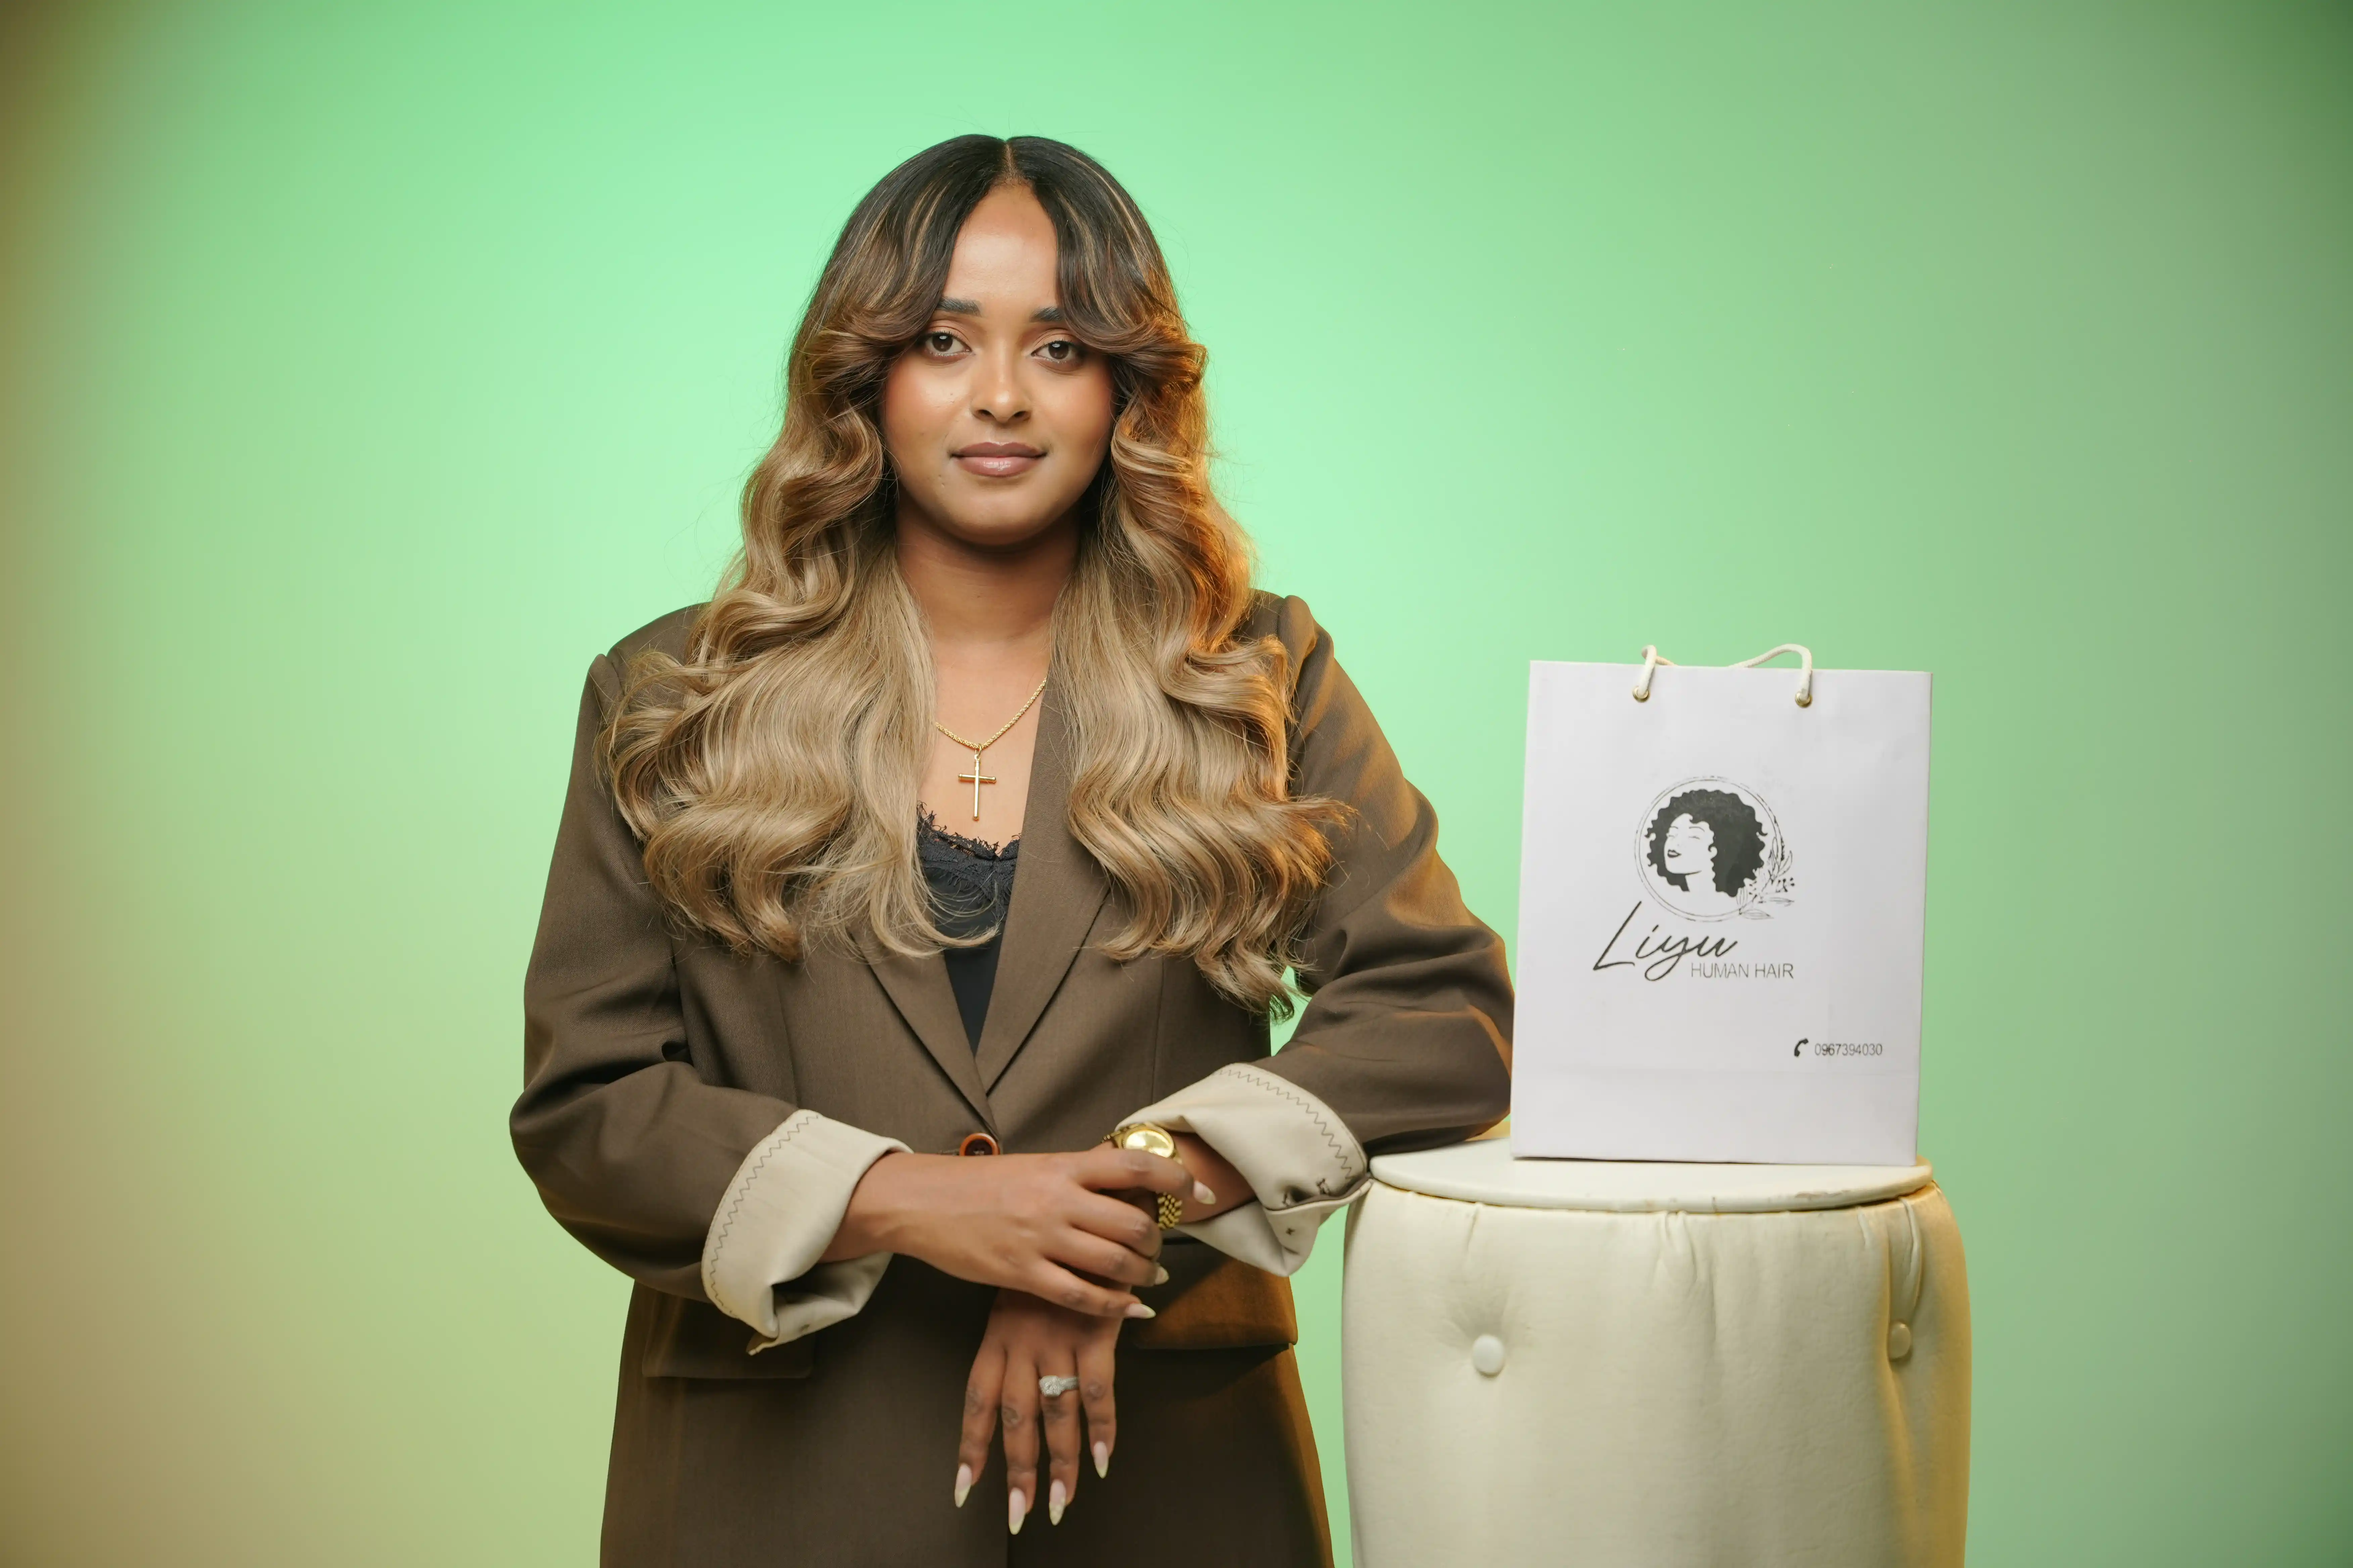
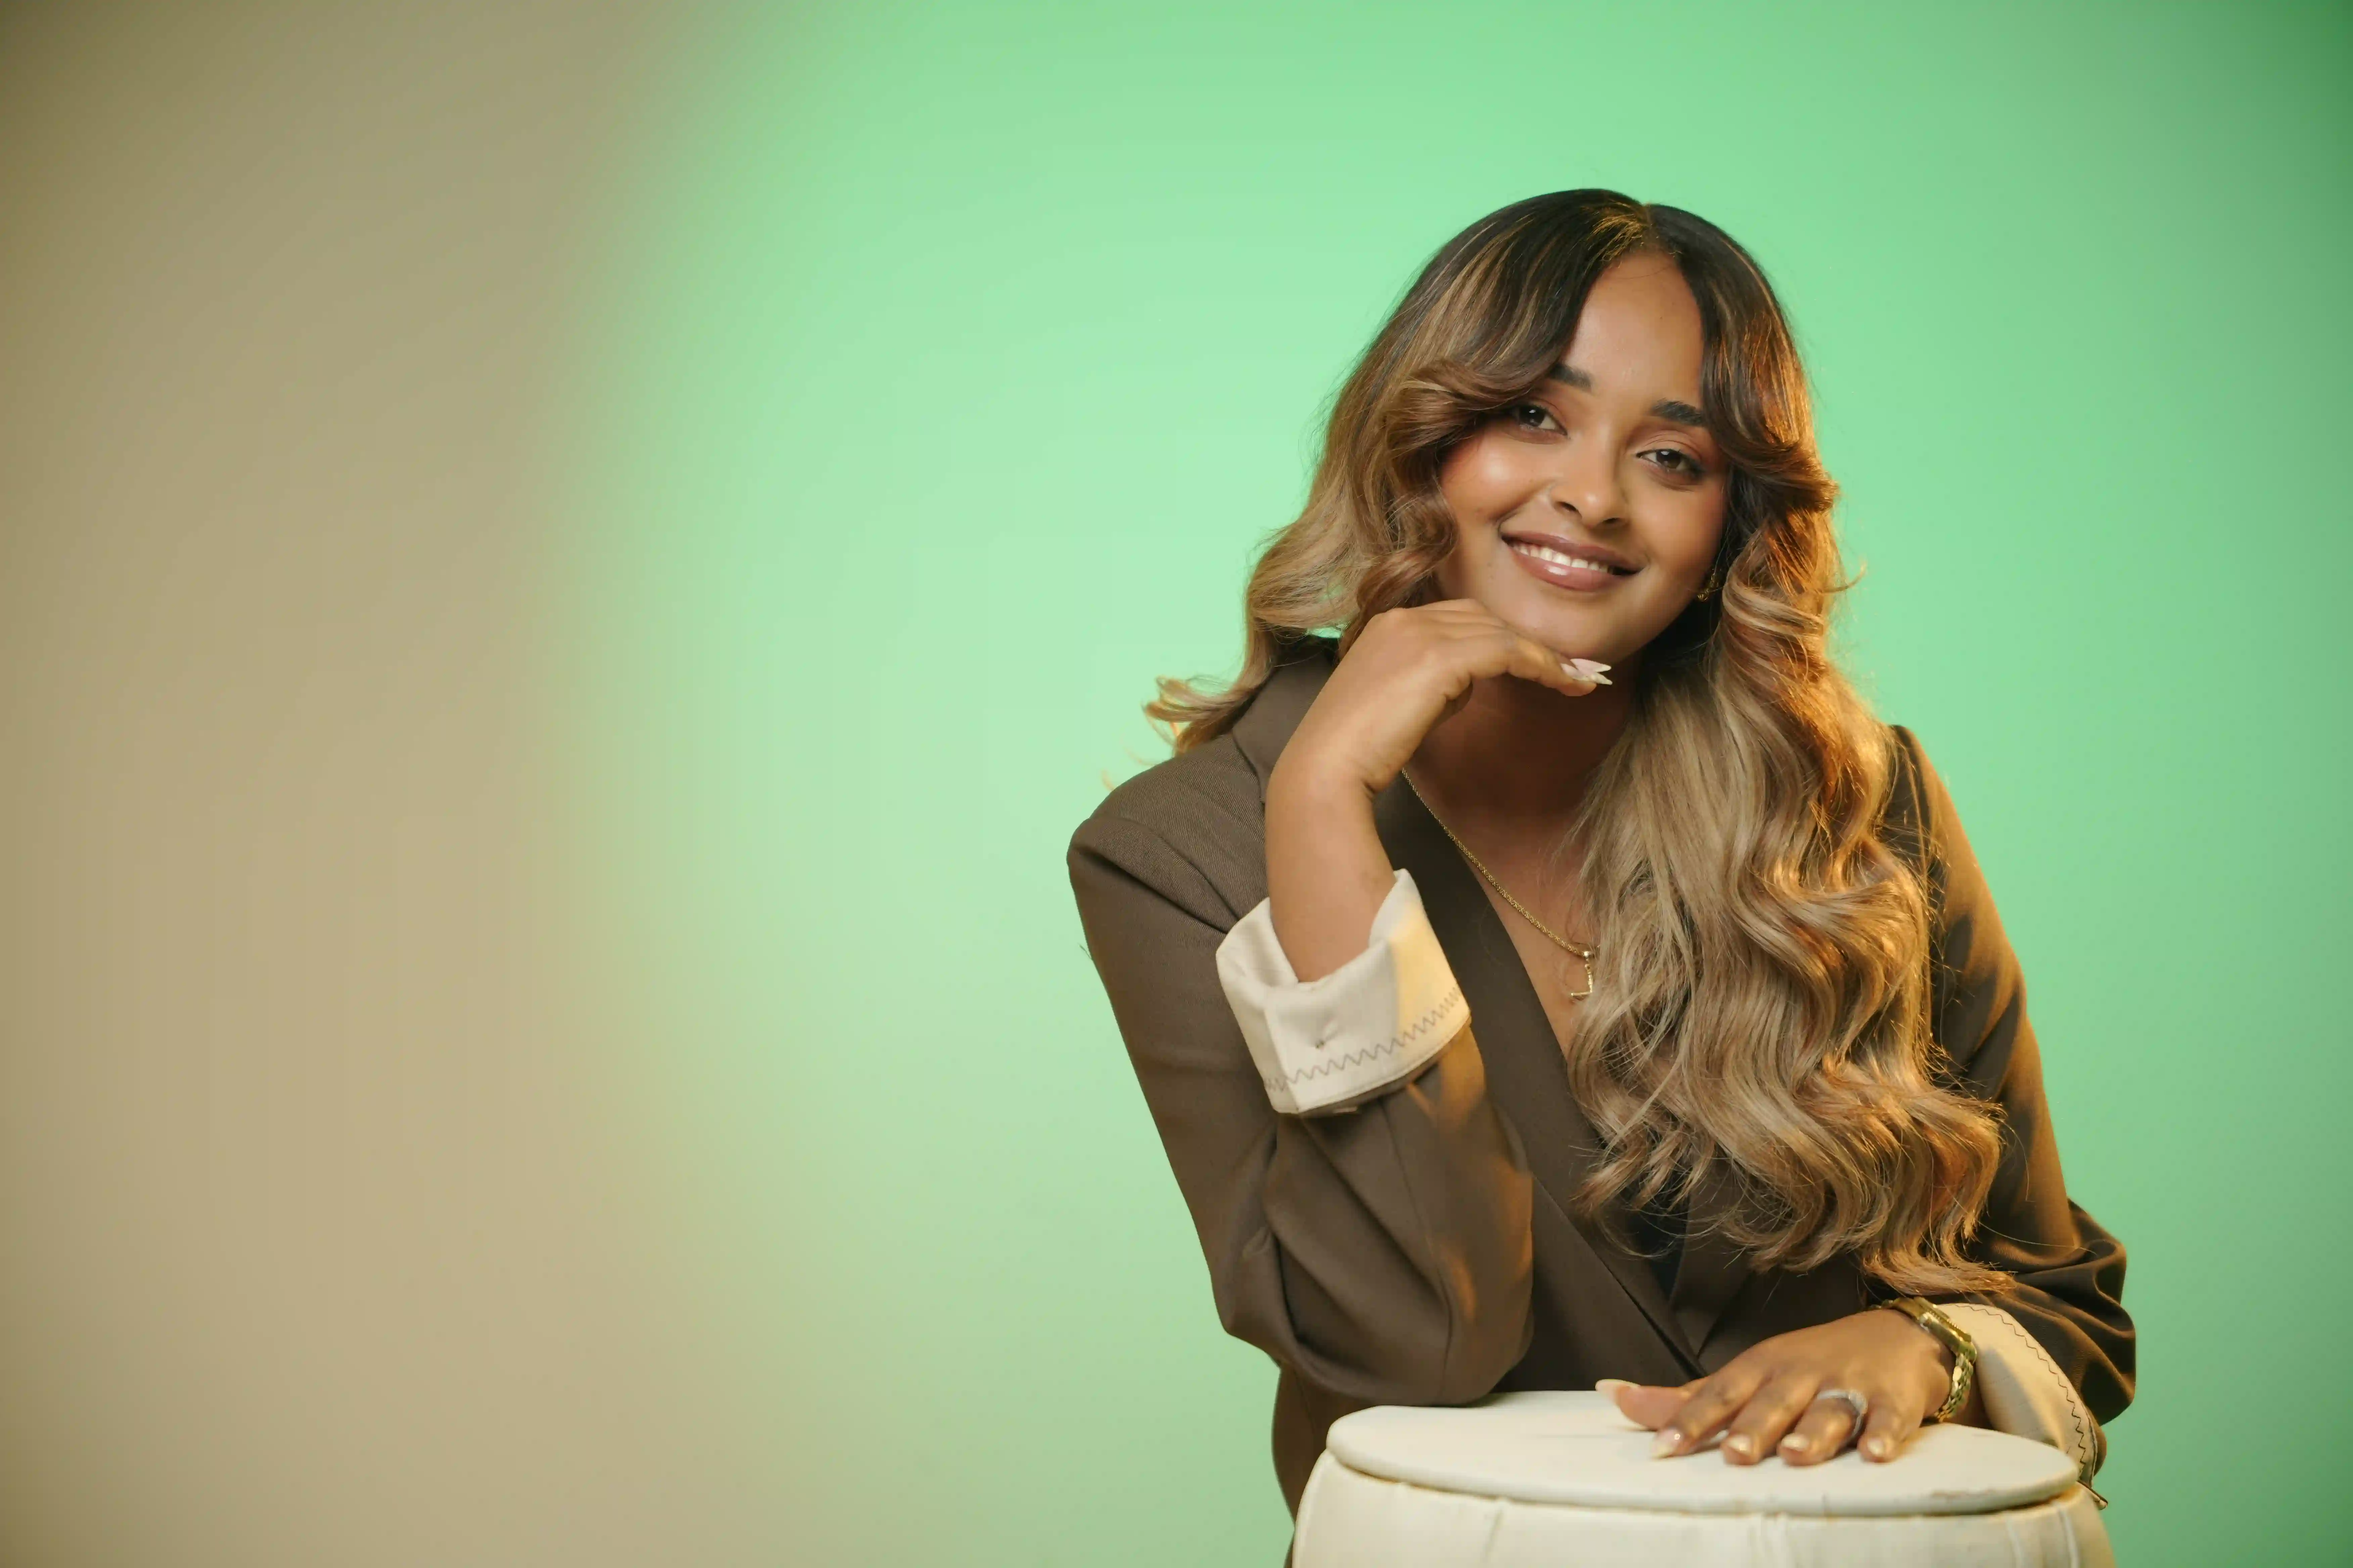
refactor(ui): update product card image resolution logic
Simplify the image resolution logic in ProductCard to rely exclusively on color-specific variants or base product images, removing hardcoded file paths.

diff --git a/src/data/products.ts b/src/data/products.ts
@@ -8,24 +8,28 @@ export const PRODUCTS: Product[] = [
     catalogNumber: 1,
     category: 'Wave',
     shortDescription: 'Premium human hair with a soft, flowing wave pattern. Sold as 1 Bundle.',
-    description: 'Premium human hair with a soft, flowing wave pattern. Designed for a natural, elegant look with movement and versatility. Available in multiple lengths in Black.',
+    description: 'Premium human hair with a soft, flowing wave pattern. Designed for a natural, elegant look with movement and versatility. Available in multiple lengths in Black and Blonde.',
     bundleNotice: 'Sold as 1 Bundle',
     basePrice: 80,
     maxPrice: 102,
-    availableColors: ['Black'],
+    availableColors: ['Black', 'Blonde'],
     availableLengths: [20, 22, 24, 26, 28],
     images: [
+      '/4.webp',
       '/1.webp',
     ],
     colorImages: {
-      Black: '/1.webp',
+      Black: '/4.webp',
+      Blonde: '/1.webp',
     },
     colorThumbnails: {
-      Black: '/1.webp',
+      Black: '/4.webp',
+      Blonde: '/1.webp',
     },
     features: [
       'Brazilian Human Hair — 1 Piece Price',
       'Double Donor: 85%–90% equal length from top to bottom',
+      'Available in Black and Blonde shades',
       'Intact unidirectionally aligned cuticles',
       'Soft, flowing wave pattern with natural luster',
       'Double micro-stitch reinforced sealed weft',
@@ -40,11 +44,18 @@ export const PRODUCTS: Product[] = [
     reviewCount: 142,
     isBestseller: true,
     variants: [
+      // BLACK
       { id: 'wv-blk-20', color: 'Black', length: 20, price: 80, inStock: true, sku: 'LY-WV-BLK-20' },
       { id: 'wv-blk-22', color: 'Black', length: 22, price: 85, inStock: true, sku: 'LY-WV-BLK-22' },
       { id: 'wv-blk-24', color: 'Black', length: 24, price: 92, inStock: true, sku: 'LY-WV-BLK-24' },
       { id: 'wv-blk-26', color: 'Black', length: 26, price: 97, inStock: true, sku: 'LY-WV-BLK-26' },
       { id: 'wv-blk-28', color: 'Black', length: 28, price: 102, inStock: true, sku: 'LY-WV-BLK-28' },
+      // BLONDE
+      { id: 'wv-bld-20', color: 'Blonde', length: 20, price: 80, inStock: true, sku: 'LY-WV-BLD-20' },
+      { id: 'wv-bld-22', color: 'Blonde', length: 22, price: 85, inStock: true, sku: 'LY-WV-BLD-22' },
+      { id: 'wv-bld-24', color: 'Blonde', length: 24, price: 92, inStock: true, sku: 'LY-WV-BLD-24' },
+      { id: 'wv-bld-26', color: 'Blonde', length: 26, price: 97, inStock: true, sku: 'LY-WV-BLD-26' },
+      { id: 'wv-bld-28', color: 'Blonde', length: 28, price: 102, inStock: true, sku: 'LY-WV-BLD-28' },
     ],
   },
   {
@@ -193,13 +204,13 @@ export const PRODUCTS: Product[] = [
     availableColors: ['Black'],
     availableLengths: [20, 22, 24, 26, 28],
     images: [
-      '/15.png',
+      '/16.png',
     ],
     colorImages: {
-      Black: '/15.png',
+      Black: '/16.png',
     },
     colorThumbnails: {
-      Black: '/15.png',
+      Black: '/16.png',
     },
     features: [
       'Brazilian Human Hair — 1 Piece Price',
@@ -238,13 +249,13 @@ export const PRODUCTS: Product[] = [
     availableColors: ['Black'],
     availableLengths: [18, 20, 22, 24, 26, 28],
     images: [
-      '/4.webp',
+      '/17.png',
     ],
     colorImages: {
-      Black: '/4.webp',
+      Black: '/17.png',
     },
     colorThumbnails: {
-      Black: '/4.webp',
+      Black: '/17.png',
     },
     features: [
       'Brazilian Human Hair — 1 Piece Price',
@@ -282,25 +293,27 @@ export const PRODUCTS: Product[] = [
     bundleNotice: 'Sold as 1 Bundle',
     basePrice: 76,
     maxPrice: 89,
-    availableColors: ['Black', 'Coffee Brown', 'Highlight'],
+    availableColors: ['Ash Blonde', 'Coffee Brown', 'Highlight'],
     availableLengths: [16, 18, 20],
     images: [
       '/2.webp',
     ],
     colorImages: {
-      Black: '/2.webp',
+      'Ash Blonde': '/2.webp',
       'Coffee Brown': '/10.png',
       Highlight: '/2.webp',
+      Black: '/2.webp',
     },
     colorThumbnails: {
-      Black: '/2.webp',
+      'Ash Blonde': '/2.webp',
       'Coffee Brown': '/10.png',
       Highlight: '/2.webp',
+      Black: '/2.webp',
     },
     features: [
       'Vietnamese Human Hair — 1 Piece Price',
       'Super Double Donor: 100% equal length from top to bottom',
-      'Available in Black, Coffee Brown & Highlight',
+      'Available in Ash Blonde, Coffee Brown & Highlight',
       'Rhythmic fluid waves that hold in any climate',
       'Micro-wefted with reinforced borders',
     ],
@@ -315,10 +328,10 @@ export const PRODUCTS: Product[] = [
     isFlashSale: true,
     discountPercentage: 15,
     variants: [
-      // BLACK
-      { id: 'ow-blk-16', color: 'Black', length: 16, price: 76, inStock: true, sku: 'LY-OW-BLK-16' },
-      { id: 'ow-blk-18', color: 'Black', length: 18, price: 81, inStock: true, sku: 'LY-OW-BLK-18' },
-      { id: 'ow-blk-20', color: 'Black', length: 20, price: 87, inStock: true, sku: 'LY-OW-BLK-20' },
+      // ASH BLONDE
+      { id: 'ow-asb-16', color: 'Ash Blonde', length: 16, price: 76, inStock: true, sku: 'LY-OW-ASB-16' },
+      { id: 'ow-asb-18', color: 'Ash Blonde', length: 18, price: 81, inStock: true, sku: 'LY-OW-ASB-18' },
+      { id: 'ow-asb-20', color: 'Ash Blonde', length: 20, price: 87, inStock: true, sku: 'LY-OW-ASB-20' },
       // COFFEE BROWN
       { id: 'ow-cfb-16', color: 'Coffee Brown', length: 16, price: 78, inStock: true, sku: 'LY-OW-CFB-16' },
       { id: 'ow-cfb-18', color: 'Coffee Brown', length: 18, price: 83, inStock: true, sku: 'LY-OW-CFB-18' },

diff --git a/src/pages/AdminPage.tsx b/src/pages/AdminPage.tsx
@@ -39,12 +39,15 @@ import { EmailPreviewModal } from '../components/EmailPreviewModal';
 
 // Authentic bundle images available in /public
 const PRESET_BUNDLE_IMAGES = [
-  { path: '/1.webp', label: 'Wave Human Hair' },
+  { path: '/18.png', label: 'Wave Human Hair (18.png)' },
+  { path: '/17.png', label: 'Burmese Human Hair (17.png)' },
+  { path: '/16.png', label: 'Deep Freeze / Deep Frizz (16.png)' },
+  { path: '/15.png', label: 'Deep Frizz Alternate (15.png)' },
+  { path: '/1.webp', label: 'Wave Hair (1.webp)' },
   { path: '/2.webp', label: 'Ocean Wave (Vietnamese)' },
   { path: '/3.webp', label: 'Fumi Double Drawn' },
-  { path: '/4.webp', label: 'Burmese Human Hair' },
+  { path: '/4.webp', label: 'Burmese Hair (4.webp)' },
   { path: '/5.webp', label: 'Pixie Curl' },
-  { path: '/15.png', label: 'Deep Frizz (15.png)' },
   { path: '/6.webp', label: 'Deep Frizz Alternate (6.webp)' },
   { path: '/7.png', label: 'Raw Human Hair' },
   { path: '/8.png', label: 'Blonde Bundle' },

diff --git a/src/context/StoreContext.tsx b/src/context/StoreContext.tsx
@@ -154,7 +154,7 @@ const STORAGE_KEYS = {
   NOTIFICATIONS: 'liyu_notifications_v1',
   PUSH_PERM: 'liyu_push_perm_v1',
   COUPON: 'liyu_coupon_v1',
-  PRODUCTS: 'liyu_products_v5',
+  PRODUCTS: 'liyu_products_v8',
   TYPES: 'liyu_product_types_v3',
   REQUESTS: 'liyu_customer_requests_v3',
   WHATSAPP: 'liyu_whatsapp_config_v3',
@@ -288,6 +288,9 @@ export const StoreProvider: React.FC<{ children: React.ReactNode }> = ({ childre
               images: canonical?.images || p.images,
               colorImages: canonical?.colorImages || p.colorImages,
               colorThumbnails: canonical?.colorThumbnails || p.colorThumbnails,
+              availableColors: canonical?.availableColors || p.availableColors,
+              variants: canonical?.variants || p.variants,
+              features: canonical?.features || p.features,
               inStock: p.inStock !== false, // default to true if undefined
             };
           });

diff --git a/src/components/ProductCard.tsx b/src/components/ProductCard.tsx
@@ -36,11 +36,9 @@ export const ProductCard: React.FC<ProductCardProps> = ({ product }) => {
 
   // Resolve image for display on homepage product card
   const cardImage =
-    product.id === 'liyu-deep-frizz'
-      ? '/15.png'
-      : (product.colorImages && defaultVariant?.color && product.colorImages[defaultVariant.color]) ||
-        product.images[0] ||
-        '/15.png';
+    (product.colorImages && defaultVariant?.color && product.colorImages[defaultVariant.color]) ||
+    product.images[0] ||
+    (product.id === 'liyu-deep-frizz' ? '/16.png' : '/18.png');
 
   return (
     <div
